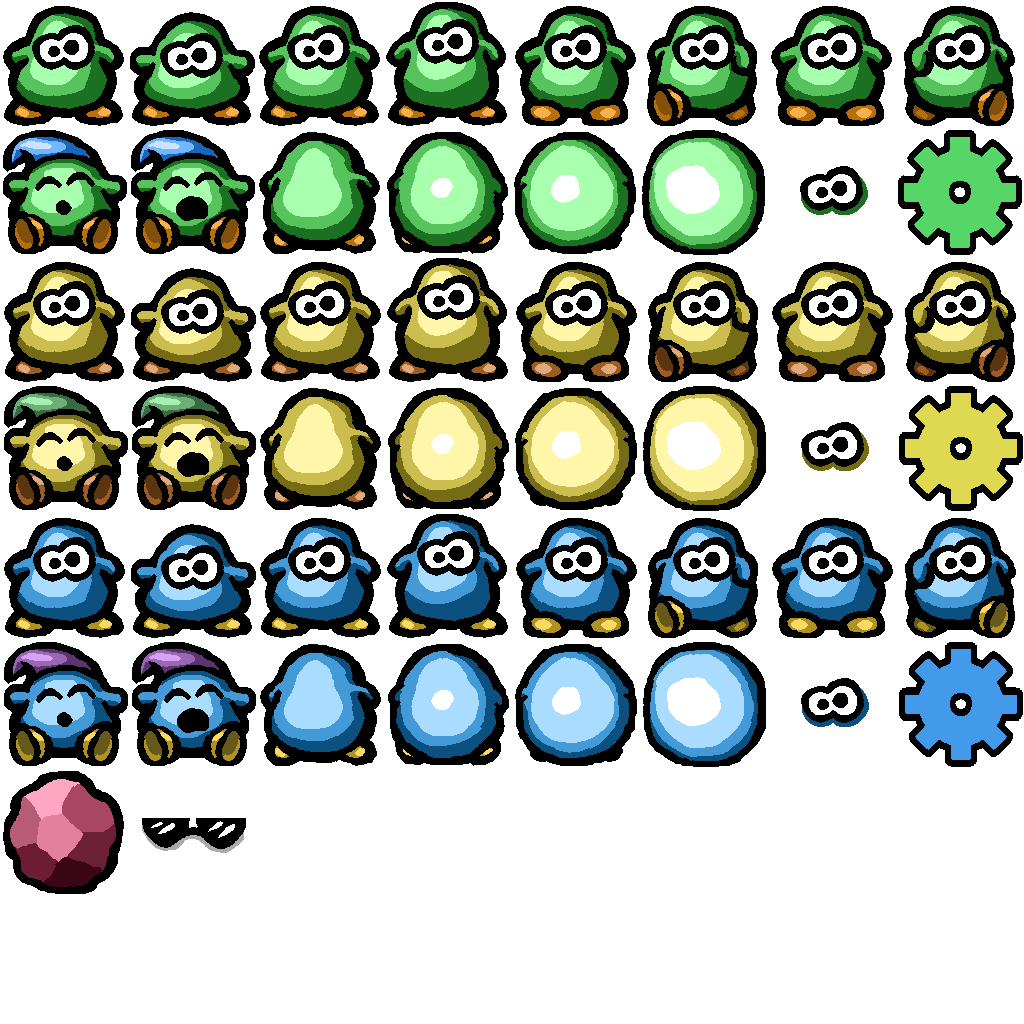
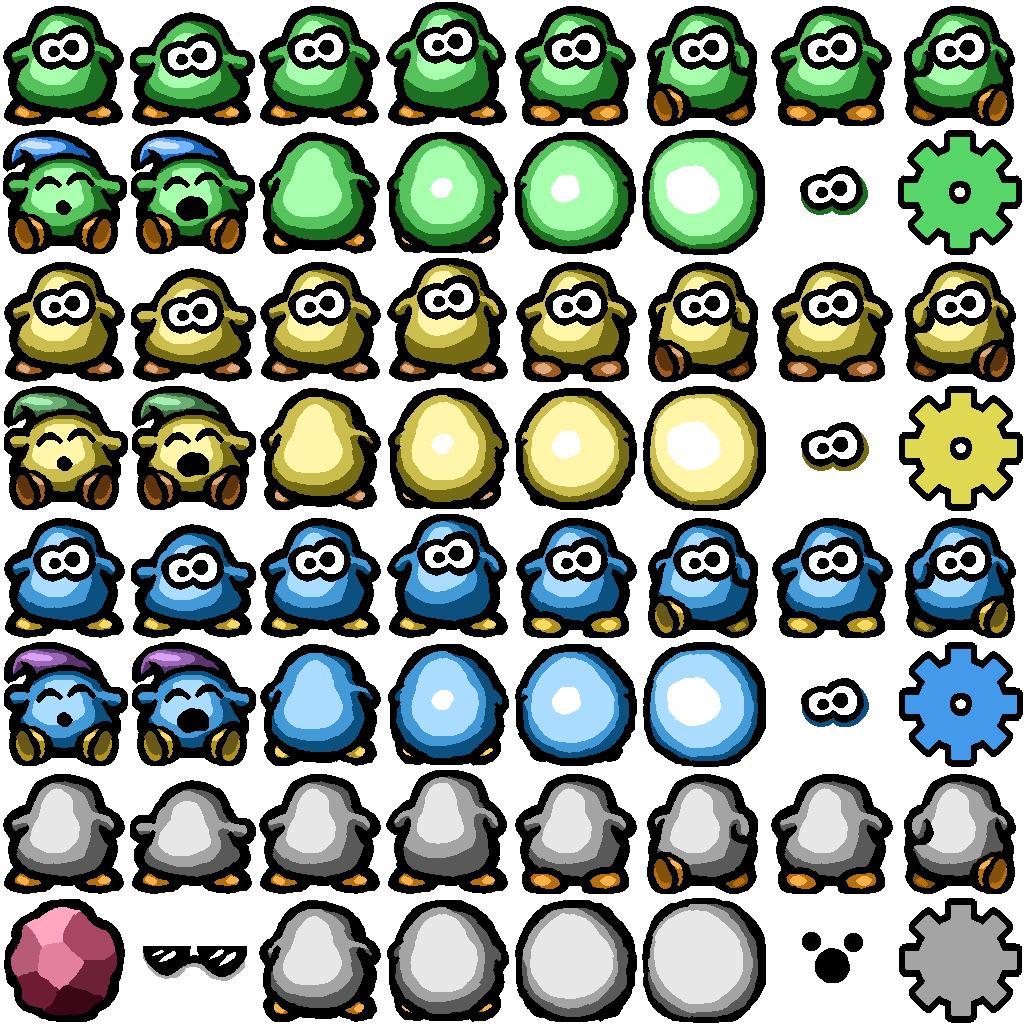
Stages up to 42

Changed region(s): [[0.0, 0.75, 1.0, 1.0], [0.7812, 0.9062, 0.8438, 0.9688]]

diff --git a/src/Scenes/Game/Worker.cpp b/src/Scenes/Game/Worker.cpp
@@ -217,6 +217,16 @@ void Worker::transform(float tm) {
 }
 
 
+// Check nearby tile (for cog!)
+bool Worker::checkNearbyTile(Stage* stage, int c) {
+
+    return stage->getSolidValue(pos.x,pos.y-1) == c
+    || stage->getSolidValue(pos.x,pos.y+1) == c
+    || stage->getSolidValue(pos.x-1,pos.y) == c
+    || stage->getSolidValue(pos.x+1,pos.y) == c;
+}
+
+
 // Check cog collision
 void Worker::checkCogCollision(Stage* stage) {
 
@@ -224,10 +234,8 @@ void Worker::checkCogCollision(Stage* stage) {
         return;
 
     // Check nearby tiles
-    if(stage->getSolidValue(pos.x,pos.y-1) == 3+color
-    || stage->getSolidValue(pos.x,pos.y+1) == 3+color
-    || stage->getSolidValue(pos.x-1,pos.y) == 3+color
-    || stage->getSolidValue(pos.x+1,pos.y) == 3+color) {
+    if(checkNearbyTile(stage, 3+color) ||
+       checkNearbyTile(stage, 3+3)) {
 
         isCog = true;
         moving = false;
@@ -269,10 +277,11 @@ Worker::Worker(Point p, int color, bool sleeping, bool isCog) {
 
         if(color != -1)
             frame = rand() % 4;
+
         else {
 
             frame = 0;
-            row = 6;
+            row = 7;
         }
     }
     else {
@@ -359,8 +368,6 @@ void Worker::draw(Graphics* g) {
     }
     else {
 
-        
-
         // Draw rock
         if(color == -1) {
 
@@ -371,7 +378,7 @@ void Worker::draw(Graphics* g) {
             g->useTransf();
 
             // Draw rock body
-            spr.draw(g, bmpWorker, 0,6, 
+            spr.draw(g, bmpWorker, 0,7, 
                 -BASE_TILE_SIZE/2, 
                 -BASE_TILE_SIZE/2);
             
@@ -379,7 +386,7 @@ void Worker::draw(Graphics* g) {
             g->useTransf();
 
             // Draw sunglasses
-            spr.draw(g, bmpWorker, 1,6, vpos.x, vpos.y);
+            spr.draw(g, bmpWorker, 1,7, vpos.x, vpos.y);
         }
         else {
 

diff --git a/src/Scenes/Game/Stage.cpp b/src/Scenes/Game/Stage.cpp
@@ -329,6 +329,23 @@ void Stage::parseMap(Communicator &comm) {
             isCog = false;
             break;
 
+        // Gray cog
+        case 11:
+
+            color = 3;
+            isCog = true;
+            sleeping = false;
+            break;
+
+        // Gray worker
+        case 12:
+
+            color = 3;
+            isCog = false;
+            sleeping = false;
+            break;
+
+
         default:
             isWorker = false;
             break;

diff --git a/src/Scenes/Game/Worker.hpp b/src/Scenes/Game/Worker.hpp
@@ -62,6 +62,9 @@ private:
     // Transform
     void transform(float tm);
 
+    // Check nearby tile (for cog!)
+    bool checkNearbyTile(Stage* stage, int color);
+
 public:
 
     // Constructor
